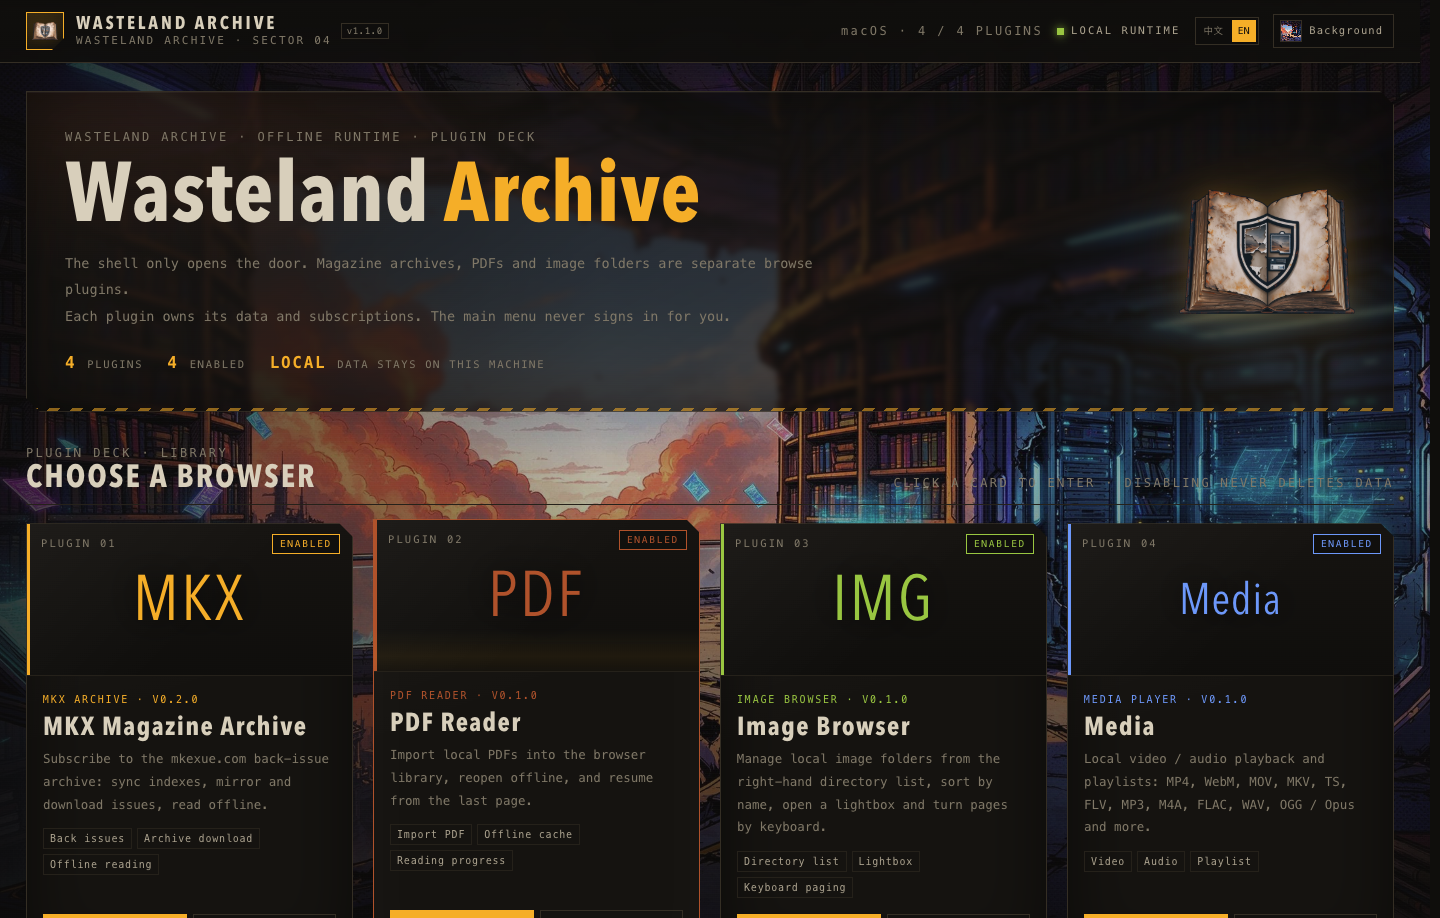
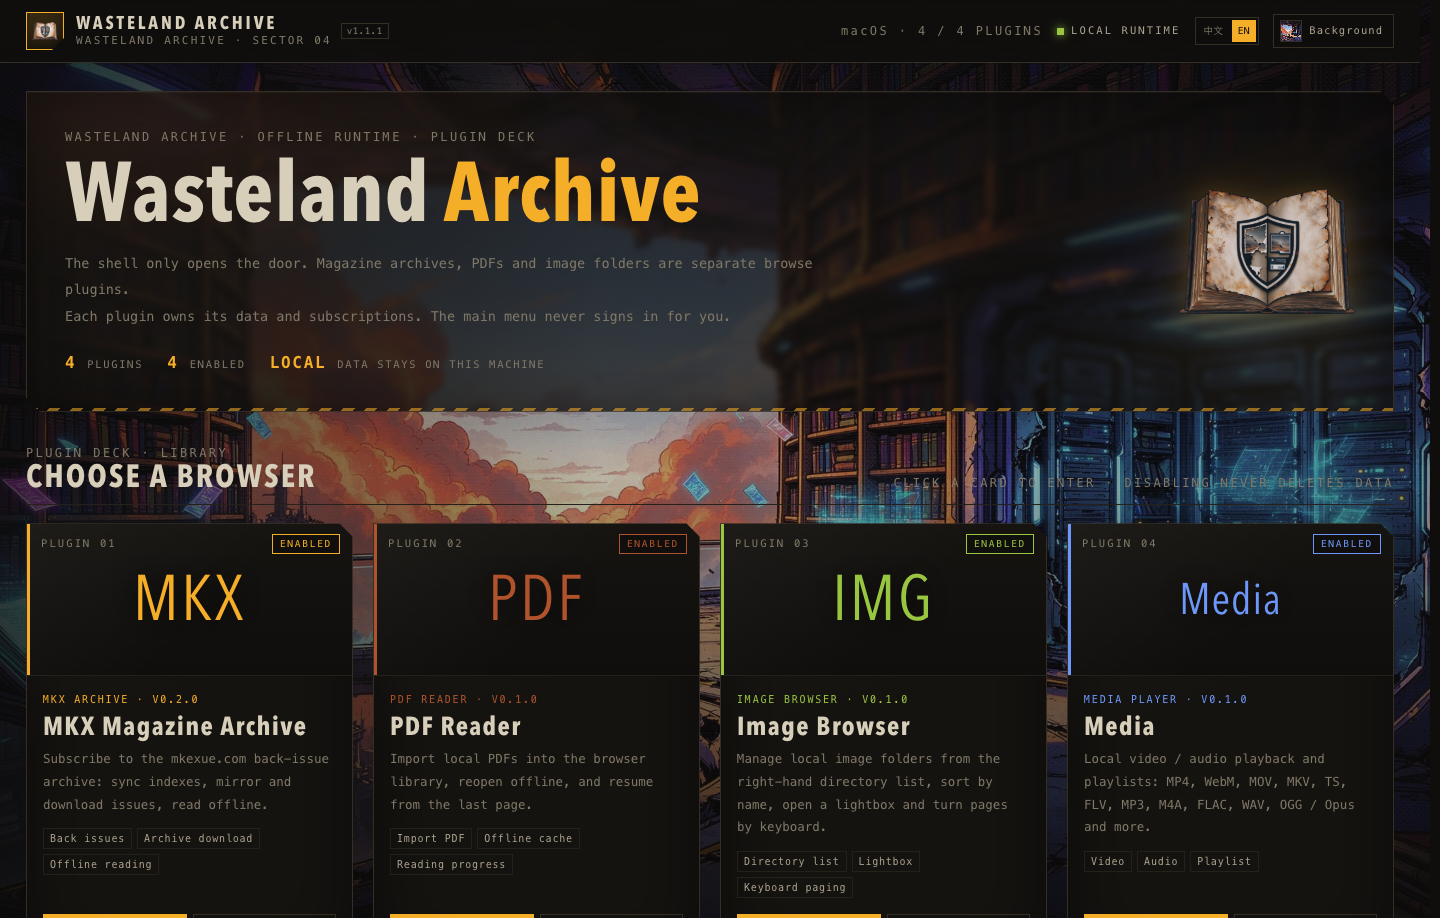
Release 1.1.1: purge legacy IndexedDB media blobs

diff --git a/src/lib/idb.js b/src/lib/idb.js
@@ -1,6 +1,7 @@
 const DB_NAME = "wasteland-browser";
 const DB_VERSION = 5;
 const STORES = ["pdfs", "folders", "imageFolders", "media", "mediaFolders", "mediaTranscodes"];
+const LEGACY_MEDIA_CLEANUP_KEY = "wasteland.media.legacy-cache-cleared.v1";
 let dbPromise = null;
 
 function openDb() {
@@ -39,6 +40,30 @@ async function withStore(name, mode, fn) {
     tx.onerror = () => reject(tx.error || new Error("IndexedDB 事务失败"));
     tx.onabort = () => reject(tx.error || new Error("IndexedDB 事务取消"));
   });
+}
+
+/* Old 1.0.x builds copied every imported media file into IndexedDB as a Blob.
+   Those blobs can occupy hundreds of GB in the Electron/browser profile. The
+   server-backed library only stores paths, so remove the legacy media stores
+   once while keeping PDFs and image-folder metadata untouched. */
+export async function purgeLegacyMediaCache() {
+  try {
+    const db = await openDb();
+    const stores = ["media", "mediaFolders", "mediaTranscodes"].filter((name) => db.objectStoreNames.contains(name));
+    if (stores.length) {
+      await new Promise((resolve, reject) => {
+        const tx = db.transaction(stores, "readwrite");
+        for (const name of stores) tx.objectStore(name).clear();
+        tx.oncomplete = () => resolve();
+        tx.onerror = () => reject(tx.error || new Error("IndexedDB cleanup failed"));
+        tx.onabort = () => reject(tx.error || new Error("IndexedDB cleanup aborted"));
+      });
+    }
+    localStorage.setItem(LEGACY_MEDIA_CLEANUP_KEY, "1");
+    return true;
+  } catch {
+    return false;
+  }
 }
 
 export async function idbGetAll(name) {

diff --git a/server/index.js b/server/index.js
@@ -181,6 +181,14 @@ app.delete("/api/backgrounds/:file", (req, res) => {
 /* ------------------------------------------------------------------ */
 const TRANSCODE_ROOT = MEDIA_CACHE_DIR;
 fs.mkdirSync(TRANSCODE_ROOT, { recursive: true });
+/* 1.0.x kept HLS segments inside the portable archive folder. They are pure
+   cache; remove the old directory so data/ stays small and transferable. */
+try {
+  const legacyTranscodes = path.join(DATA_DIR, "transcodes");
+  if (legacyTranscodes !== TRANSCODE_ROOT && fs.existsSync(legacyTranscodes)) {
+    fs.rmSync(legacyTranscodes, { recursive: true, force: true });
+  }
+} catch {}
 const TRANSCODE_MAX_BYTES = 4 * 1024 * 1024 * 1024;
 const require = createRequire(import.meta.url);
 let bundledFfmpeg = null;

diff --git a/src/main.js b/src/main.js
@@ -5,6 +5,7 @@ import * as directives from "vuetify/directives";
 import "vuetify/styles";
 import "@mdi/font/css/materialdesignicons.css";
 import App from "./App.vue";
+import { purgeLegacyMediaCache } from "./lib/idb";
 import "./lib/platform";
 import "./styles/wasteland.css";
 
@@ -48,3 +49,4 @@ const vuetify = createVuetify({
 });
 
 createApp(App).use(vuetify).mount("#app");
+purgeLegacyMediaCache();

diff --git a/README.md b/README.md
@@ -2,7 +2,7 @@
 
 <p align="center"><img src="src/assets/logo-wordmark.png" alt="Wasteland Archive logo" width="440" /></p>
 
-**Version 1.1.0** · [Changelog](CHANGELOG.md)
+**Version 1.1.1** · [Changelog](CHANGELOG.md)
 
 **Wasteland Archive** is an offline-first, local reading terminal for magazines, PDFs, image folders and local media. The shell only opens the door: every collection is a plugin, and every plugin owns its own data.
 
@@ -65,7 +65,7 @@ Sample: [sample10.pdf](https://samplelib.com/pdf/sample10.pdf) from samplelib.co
 
 Sample: [sample-15s.mp4](https://samplelib.com/mp4/sample-15s.mp4) from samplelib.com.
 
-> **Upgrade note for 1.1.0.** The media library index moved from browser IndexedDB to the server. Old browser entries cannot be migrated automatically because browsers hide absolute paths. Click **添加目录路径** once and paste your media root (for example `/Volumes/MYBAK2/Movies`); the server scans it and the library is then shared by every browser.
+> **Upgrade note for 1.1.1.** The media library index moved from browser IndexedDB to the server. Old browser entries cannot be migrated automatically because browsers hide absolute paths. Click **添加目录路径** once and paste your media root (for example `/Volumes/MYBAK2/Movies`); the server scans it and the library is then shared by every browser.
 
 ![Media play history](docs/media-history.png)
 
@@ -137,7 +137,7 @@ Useful commands:
 | `make bootstrap` | Environment check/install only |
 | `make status` | Process + login status |
 | `make down` | Stop the server |
-| `make package` | Portable web package → `release/wasteland-archive-1.1.0.tar.gz` |
+| `make package` | Portable web package → `release/wasteland-archive-1.1.1.tar.gz` |
 | `make app` | Native macOS apps (arm64 + Intel x64) → `.app` + zip + dmg |
 | `make app-win` | Windows x64 portable app → `Wasteland-Archive-win-x64.zip` |
 
@@ -150,10 +150,10 @@ make app
 Outputs (Apple Silicon + Intel):
 
 ```text
-release/native/Wasteland-Archive-mac-arm64-1.1.0.dmg
-release/native/Wasteland-Archive-mac-arm64-1.1.0.zip
-release/native/Wasteland-Archive-mac-x64-1.1.0.dmg
-release/native/Wasteland-Archive-mac-x64-1.1.0.zip
+release/native/Wasteland-Archive-mac-arm64-1.1.1.dmg
+release/native/Wasteland-Archive-mac-arm64-1.1.1.zip
+release/native/Wasteland-Archive-mac-x64-1.1.1.dmg
+release/native/Wasteland-Archive-mac-x64-1.1.1.zip
 ```
 
 Both DMGs contain the app plus an **Applications shortcut**. Open the DMG and drag **废土馆藏.app** onto Applications. The app bundles Node, Chromium, `ffmpeg-static` and Playwright headless Chromium. It starts its own internal server on the stable port **5278** and stops it when the app quits.
@@ -174,7 +174,7 @@ make app-win
 Output:
 
 ```text
-release/native/Wasteland-Archive-win-x64-1.1.0.zip
+release/native/Wasteland-Archive-win-x64-1.1.1.zip
 ```
 
 Unzip it on Windows 10/11 x64 and run **废土馆藏.exe**. This is a portable build — no installer, no Node installation. It bundles Windows Electron, ffmpeg and Playwright headless Chromium.
@@ -197,8 +197,11 @@ The top bar language switch persists the choice in localStorage. A reload is opt
 | Auth token | `data/auth.json` | same under native app data |
 | Media library index / positions / subtitles | `~/.wasteland_archive/media-index.json` | `~/Library/Application Support/wasteland-archive/media-index.json` |
 | PDF/image libraries | IndexedDB `wasteland-browser` | same IndexedDB, app profile |
+| Legacy 1.0.x media Blobs | purged automatically once at startup | same |
 | Custom backgrounds | `~/.wasteland_browser/bg_screens` | shared with the same path |
 | HLS temp files | `~/.wasteland_archive/transcodes` (1h TTL) | Application Support `transcodes` |
+
+**Upgrading from 1.0.x:** those versions copied every imported media file into IndexedDB as a Blob, which is what could grow to hundreds of GB in the app profile. 1.1.1 clears the legacy `media`, `mediaFolders` and `mediaTranscodes` stores once at startup; PDF and image-folder data are left untouched. The new server media index stores paths only.
 
 To move magazines into the native app, quit the app, copy the contents of your web `data/issues` into the native `.../data/issues`, and reopen the app.
 

diff --git a/langs/README.zh-CN.md b/langs/README.zh-CN.md
@@ -2,7 +2,7 @@
 
 <p align="center"><img src="../src/assets/logo-wordmark.png" alt="废土馆藏 Logo" width="440" /></p>
 
-**版本 1.1.0** · [更新日志](../CHANGELOG.md)
+**版本 1.1.1** · [更新日志](../CHANGELOG.md)
 
 **废土馆藏** 是一个离线优先的本地阅读终端，用来管理杂志档案、PDF、图片文件夹与本地媒体。主程序只负责开门，所有馆藏都是插件，数据归插件自己管理。
 
@@ -65,7 +65,7 @@
 
 示例：[sample-15s.mp4](https://samplelib.com/mp4/sample-15s.mp4)（来自 samplelib.com）。
 
-> **1.1.0 升级说明。** 媒体库索引已从浏览器 IndexedDB 移到服务端。旧浏览器条目无法自动迁移，因为浏览器不会暴露绝对路径。请点击一次 **添加目录路径**，粘贴媒体根目录（例如 `/Volumes/MYBAK2/Movies`）；服务端扫描后，所有浏览器共用同一份媒体库。
+> **1.1.1 升级说明。** 媒体库索引已从浏览器 IndexedDB 移到服务端。旧浏览器条目无法自动迁移，因为浏览器不会暴露绝对路径。请点击一次 **添加目录路径**，粘贴媒体根目录（例如 `/Volumes/MYBAK2/Movies`）；服务端扫描后，所有浏览器共用同一份媒体库。
 
 ![Media 播放历史](../docs/media-history.png)
 
@@ -139,7 +139,7 @@ make up 会运行 scripts/bootstrap.sh：
 | make bootstrap | 只检测/安装环境 |
 | make status | 查看进程 + 登录状态 |
 | make down | 停止服务 |
-| make package | 生成 Web 便携包 release/wasteland-archive-1.1.0.tar.gz |
+| make package | 生成 Web 便携包 release/wasteland-archive-1.1.1.tar.gz |
 | make app | 生成 macOS 原生 App（arm64 + Intel x64）+ zip + dmg |
 | make app-win | 生成 Windows x64 便携包 Wasteland-Archive-win-x64.zip |
 
@@ -152,10 +152,10 @@ make app
 输出（Apple Silicon + Intel）：
 
 ~~~text
-release/native/Wasteland-Archive-mac-arm64-1.1.0.dmg
-release/native/Wasteland-Archive-mac-arm64-1.1.0.zip
-release/native/Wasteland-Archive-mac-x64-1.1.0.dmg
-release/native/Wasteland-Archive-mac-x64-1.1.0.zip
+release/native/Wasteland-Archive-mac-arm64-1.1.1.dmg
+release/native/Wasteland-Archive-mac-arm64-1.1.1.zip
+release/native/Wasteland-Archive-mac-x64-1.1.1.dmg
+release/native/Wasteland-Archive-mac-x64-1.1.1.zip
 ~~~
 
 两个 DMG 都包含 App 和 **Applications 快捷方式**。打开 DMG，把 **废土馆藏.app** 拖到 Applications 上。App 内置 Node、Chromium、ffmpeg-static 和 Playwright headless Chromium，使用固定的内部端口 **5278**，退出时自动停止服务。
@@ -176,7 +176,7 @@ make app-win
 输出：
 
 ~~~text
-release/native/Wasteland-Archive-win-x64-1.1.0.zip
+release/native/Wasteland-Archive-win-x64-1.1.1.zip
 ~~~
 
 在 Windows 10/11 x64 上解压，运行 **废土馆藏.exe** 即可。这是便携版，不需要安装 Node，也不需要单独启动 server；包内包含 Windows Electron、ffmpeg 和 Playwright headless Chromium。
@@ -204,8 +204,11 @@ src/i18n/locales/zh.js
 | 登录 token | data/auth.json | 原生 App data 下的 auth.json |
 | 媒体库索引 / 播放位置 / 字幕 | `~/.wasteland_archive/media-index.json` | `~/Library/Application Support/wasteland-archive/media-index.json` |
 | PDF / 图片库 | IndexedDB wasteland-browser | 原生 App profile 内的同源 IndexedDB |
+| 1.0.x 旧媒体 Blob | 启动时自动清除一次 | 同上 |
 | 自定义背景 | ~/.wasteland_browser/bg_screens | 同一路径，互通 |
 | HLS 临时文件 | `~/.wasteland_archive/transcodes`（1 小时 TTL） | Application Support `transcodes` |
+
+**从 1.0.x 升级：**旧版本把每个导入的媒体文件作为 Blob 复制进 IndexedDB，所以 App profile 可能膨胀到数百 GB。1.1.1 启动时会清除一次旧的 `media`、`mediaFolders`、`mediaTranscodes` 存储；PDF / 图片库不受影响。新的服务端媒体索引只保存路径。
 
 把 Web 的杂志搬到原生 App：退出 App，把 Web data/issues 的内容复制到原生 .../data/issues，再重新打开。
 

diff --git a/CHANGELOG.md b/CHANGELOG.md
@@ -2,6 +2,13 @@
 
 All notable changes to Wasteland Archive are documented here.
 
+## [1.1.1] — 2026-11-08
+
+### Fixed
+
+- Automatically purge the legacy media Blob stores (`media`, `mediaFolders`, `mediaTranscodes`) from IndexedDB once at startup. 1.0.x copied every imported media file into these stores, which could consume hundreds of GB in the app profile. PDF and image-folder stores are preserved.
+- Remove the old `data/transcodes` HLS cache directory on startup; new transcodes live under the media home directory.
+
 ## [1.1.0] — 2026-11-08
 
 ### Added
